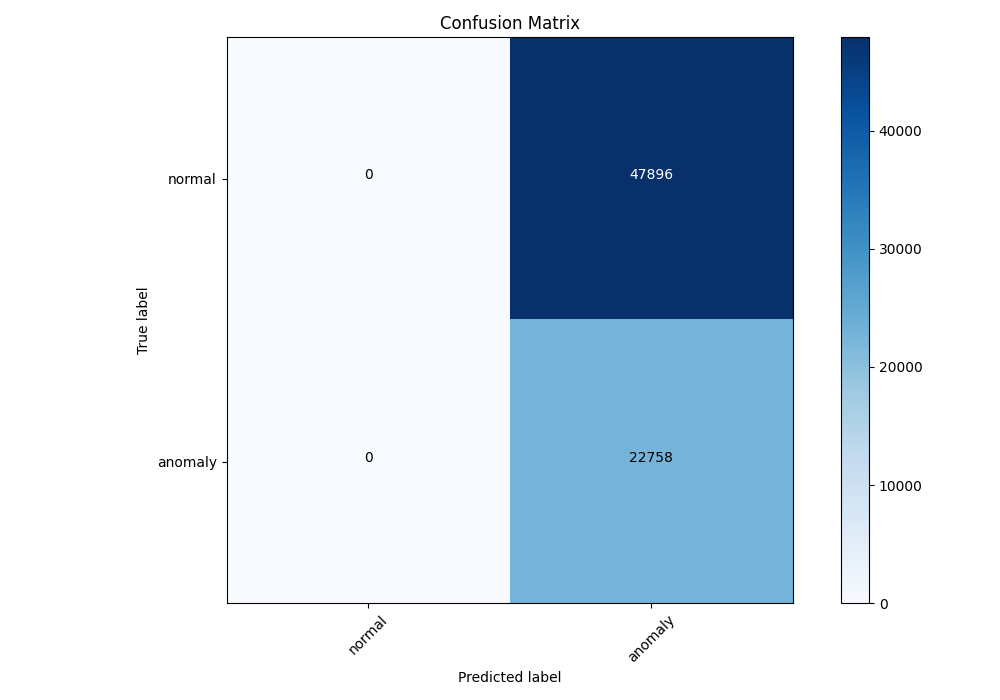
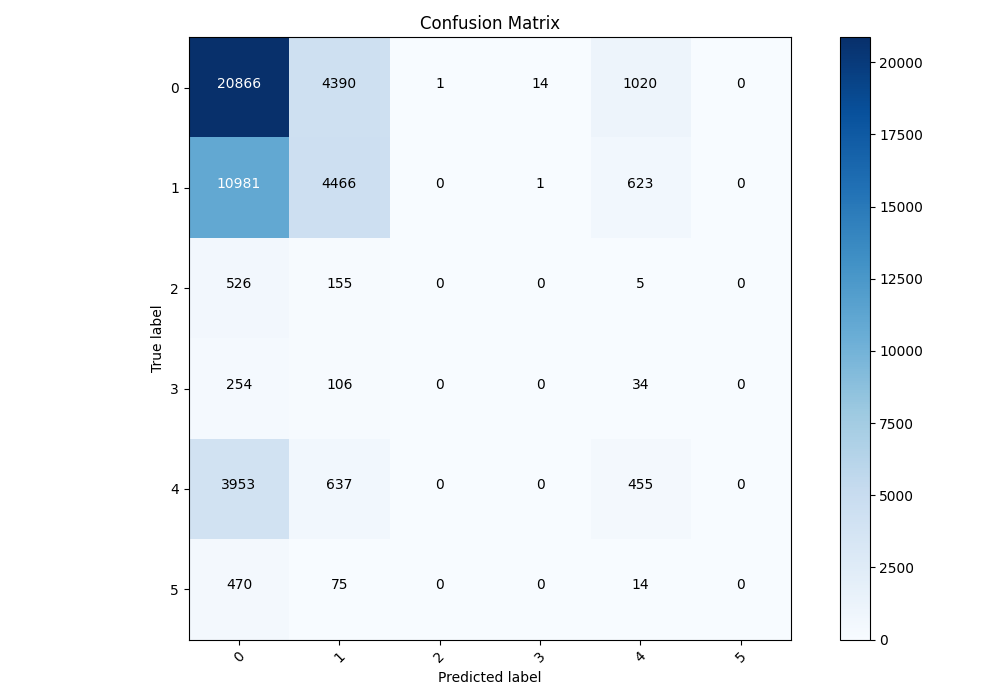
feat: mapped classes

diff --git a/src/data_classes/supervised_dataset.py b/src/data_classes/supervised_dataset.py
@@ -18,7 +18,7 @@ class SupervisedDataset(Dataset):
         return len(self.images)
 
     def __getitem__(self, idx):
-        img = torch.tensor(cv2.imread(str(self.images[idx]), cv2.IMREAD_GRAYSCALE))
+        img = torch.tensor(cv2.imread(str(self.images[idx]), cv2.IMREAD_GRAYSCALE)) # type: ignore
         if len(img.shape) == 2:
             img = img.unsqueeze(2)
         img = img.permute(2, 0, 1).float() / 255.
@@ -62,10 +62,28 @@ class SupervisedDataset(Dataset):
                     if not image_path.exists():
                         continue
 
-                    if accident_id != 0:
+                    # Mapowanie klas
+                    original_accident_id = label.get('accident_id', -1)
+                    
+                    if original_accident_id == 0:
+                        mapped_id = 0
+                    elif original_accident_id in [1, 2, 3, 4, 5]:
+                        mapped_id = 1
+                    elif original_accident_id == 6:
+                        mapped_id = 2
+                    elif original_accident_id == 7:
+                        mapped_id = 3
+                    elif original_accident_id in [8, 9]:
+                        mapped_id = 4
+                    elif original_accident_id == 10:
+                        mapped_id = 5
+                    else: # Pomiń inne etykiety (np. < 0 lub > 10)
+                         continue
+
+                    if mapped_id != 0:
                         seen_anomaly_in_file = True
                         temp_images_for_file.append(image_path)
-                        temp_targets_for_file.append(accident_id)
+                        temp_targets_for_file.append(mapped_id)
                     else:
                         if seen_anomaly_in_file:
                             break

diff --git a/src/visualization_functions.py b/src/visualization_functions.py
@@ -49,19 +49,24 @@ def draw_confusion_matrix(errors, targets, threshold=0, save_path=None, unsuperv
     if unsupervised:
         y_true = targets.cpu().numpy()
         y_pred = np.where(errors > threshold, 1, 0)
+        labels = ['normal', 'anomaly']
+        num_classes = 2
     
     else:
         y_true = targets.cpu().numpy()
         y_pred = torch.argmax(errors, dim=1).cpu().numpy()
+        # Zakładamy, że klasy są numerowane od 0 do N-1
+        num_classes = max(y_true.max(), y_pred.max()) + 1 
+        labels = [str(i) for i in range(num_classes)]
 
     cm = confusion_matrix(y_true, y_pred)
     plt.figure(figsize=(10, 7))
     plt.imshow(cm, interpolation='nearest', cmap=plt.cm.Blues)
     plt.title('Confusion Matrix')
     plt.colorbar()
-    tick_marks = np.arange(2)
-    plt.xticks(tick_marks, ['normal', 'anomaly'], rotation=45)
-    plt.yticks(tick_marks, ['normal', 'anomaly'])
+    tick_marks = np.arange(num_classes)
+    plt.xticks(tick_marks, labels, rotation=45)
+    plt.yticks(tick_marks, labels)
 
     fmt = 'd'
     thresh = cm.max() / 2.

diff --git a/src/models/ConvAE/ConvAE.py b/src/models/ConvAE/ConvAE.py
@@ -61,7 +61,7 @@ class Decoder(nn.Module):
     
 
 class ConvAE(L.LightningModule):
-    def __init__(self, encoder=Encoder, decoder=Decoder, input_shape=3, lr=0.01):
+    def __init__(self, encoder=Encoder, decoder=Decoder, input_shape=1, learning_rate=0.001):
         super().__init__()
 
         torch.set_float32_matmul_precision('high')
@@ -69,7 +69,7 @@ class ConvAE(L.LightningModule):
         self.encoder = encoder(input_shape)
         self.decoder = decoder(input_shape)
 
-        self.lr = lr
+        self.learning_rate = learning_rate
         self.criterion = nn.MSELoss(reduction='none').to(self.device)
 
         self.reconstruction_error = []
@@ -113,6 +113,6 @@ class ConvAE(L.LightningModule):
         self.log("test_loss", all_losses.mean(), on_epoch=True, sync_dist=True)
 
     def configure_optimizers(self):
-        optimizer = optim.AdamW(self.parameters(), lr=self.lr)
+        optimizer = optim.AdamW(self.parameters(), lr=self.learning_rate)
         return {'optimizer': optimizer}
     

diff --git a/src/models/LargerConvAE/LargerConvAE.py b/src/models/LargerConvAE/LargerConvAE.py
@@ -48,7 +48,7 @@ class Decoder(nn.Module):
 
 
 class LargerConvAE(L.LightningModule):
-    def __init__(self, encoder=Encoder, decoder=Decoder, input_shape=1, lr=0.001):
+    def __init__(self, encoder=Encoder, decoder=Decoder, input_shape=1, learning_rate=0.001):
         super().__init__()
 
         torch.set_float32_matmul_precision('high')
@@ -56,7 +56,7 @@ class LargerConvAE(L.LightningModule):
         self.encoder = encoder(input_shape)
         self.decoder = decoder(input_shape)
 
-        self.lr = lr
+        self.learning_rate = learning_rate
         self.criterion = SSIM(reduction='none')
 
         self.reconstruction_error = []
@@ -100,6 +100,6 @@ class LargerConvAE(L.LightningModule):
         self.log("test_loss", all_losses.mean(), on_epoch=True, sync_dist=True)
 
     def configure_optimizers(self):
-        optimizer = optim.AdamW(self.parameters(), lr=self.lr)
+        optimizer = optim.AdamW(self.parameters(), lr=self.learning_rate)
         return {'optimizer': optimizer}
     

diff --git a/src/models/model_factory.py b/src/models/model_factory.py
@@ -5,15 +5,15 @@ from .ResNet.ResNet import ResNet
 from .ResNetLSTM.ResNetLSTM import ResNetLSTM
 from .LargerConvAE.LargerConvAE import LargerConvAE
 
-def get_model(model_name: str) -> tuple[nn.Module, bool, bool]:
+def get_model(model_name: str, learning_rate: float) -> tuple[nn.Module, bool, bool]:
     if model_name == 'ConvAE':
-        return ConvAE(), True, False
+        return ConvAE(learning_rate=learning_rate), True, False
     elif model_name == 'ResNet':
-        return ResNet(), False, True
+        return ResNet(learning_rate=learning_rate), False, False
     elif model_name == 'ResNetLSTM':
-        return ResNetLSTM(), False, True
+        return ResNetLSTM(learning_rate=learning_rate), False, True
     elif model_name == 'LargerConvAE':
-        return LargerConvAE(), True, False
+        return LargerConvAE(learning_rate=learning_rate), True, False
     else:
         raise ValueError(f"Model {model_name} not found")
 

diff --git a/src/main.py b/src/main.py
@@ -13,7 +13,7 @@ import torch
 import yaml  # Import YAML library
 
 # Function to load config
-def load_config(config_path='config.yaml'):
+def load_config(config_path='src/config.yaml'):
     with open(config_path, 'r') as f:
         return yaml.safe_load(f)
 
@@ -29,6 +29,7 @@ def main():
     model_name = config['model']['name']
     epochs = config['trainer']['epochs']
     device = config['trainer']['device']
+    learning_rate = config['trainer']['learning_rate']
     experiment_name = config['logging']['experiment_name']
     run_name = config['logging']['run_name']
     tracking_uri = config['logging']['tracking_uri']
@@ -44,7 +45,7 @@ def main():
         resolved_device = device
 
     # Get model and related flags
-    model, is_unsupervised, is_sequence = get_model(model_name)
+    model, is_unsupervised, is_sequence = get_model(model_name, learning_rate)
 
     # Setup Callbacks
     callbacks = [

diff --git a/src/data_classes/datamodule.py b/src/data_classes/datamodule.py
@@ -82,9 +82,9 @@ class DataModule(LightningDataModule):
 
     def setup(self, stage=None):
         if self.unsupervised:
-            self.train_dataset = UnsupervisedDataset(self.path_to_data, 'train')
-            self.val_dataset = UnsupervisedDataset(self.path_to_data, 'val')
-            self.test_dataset = UnsupervisedDataset(self.path_to_data, 'test')
+            self.train_dataset = UnsupervisedDataset(self.path_to_data, 'train', resize_target=(227, 227))
+            self.val_dataset = UnsupervisedDataset(self.path_to_data, 'val', resize_target=(227, 227))
+            self.test_dataset = UnsupervisedDataset(self.path_to_data, 'test', resize_target=(227, 227))
         else:
             if self.is_sequence:
                 self.train_dataset = VideoDataset(

diff --git a/src/counting_functions.py b/src/counting_functions.py
@@ -33,8 +33,8 @@ def count_best_threshold(reconstruction_error, targets, unsupervised=True):
     else:
         reconstruction_error = torch.argmax(reconstruction_error, axis=1).cpu()
         accuracy = accuracy_score(targets, reconstruction_error)
-        precision = precision_score(targets, reconstruction_error)
-        recall = recall_score(targets, reconstruction_error)
-        f1 = f1_score(targets, reconstruction_error)
+        precision = precision_score(targets, reconstruction_error, average='macro')
+        recall = recall_score(targets, reconstruction_error, average='macro')
+        f1 = f1_score(targets, reconstruction_error, average='macro')
 
         return None, accuracy, precision, recall, f1

diff --git a/src/models/ResNet/ResNet.py b/src/models/ResNet/ResNet.py
@@ -6,7 +6,7 @@ import torchvision.models as models
 
 
 class ResNet(pl.LightningModule):
-    def __init__(self, input_shape=1, num_classes=2, learning_rate=0.0005, transform=None, freeze=True):
+    def __init__(self, input_shape=1, num_classes=6, learning_rate=0.0005, transform=None, freeze=True):
         super(ResNet, self).__init__()
         self.save_hyperparameters()
 
